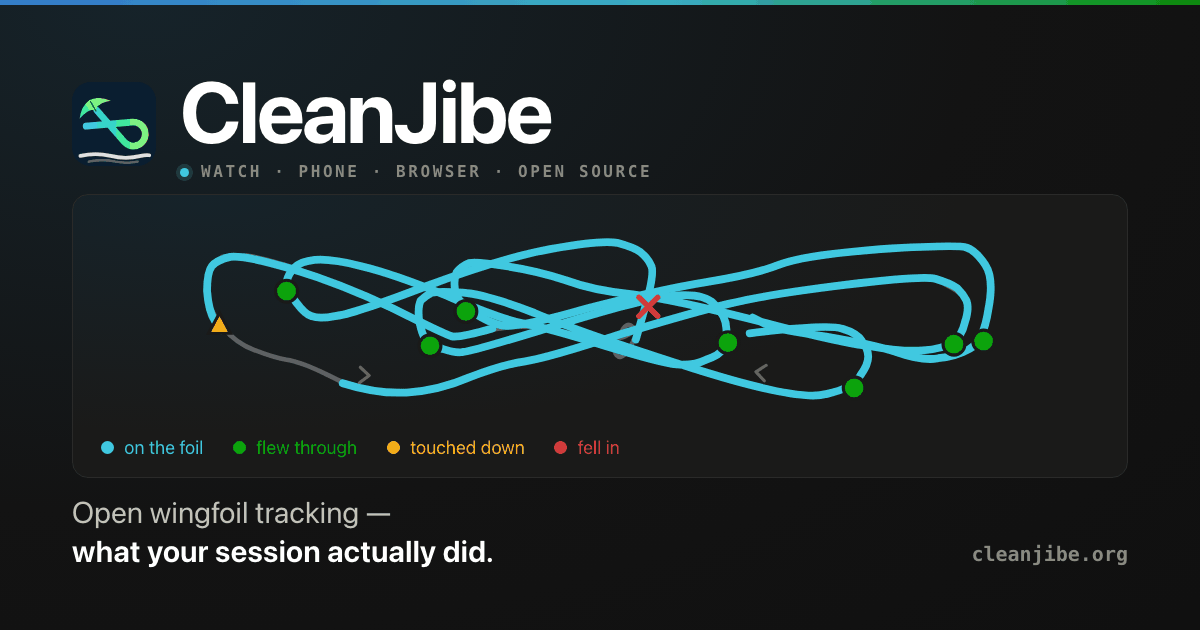
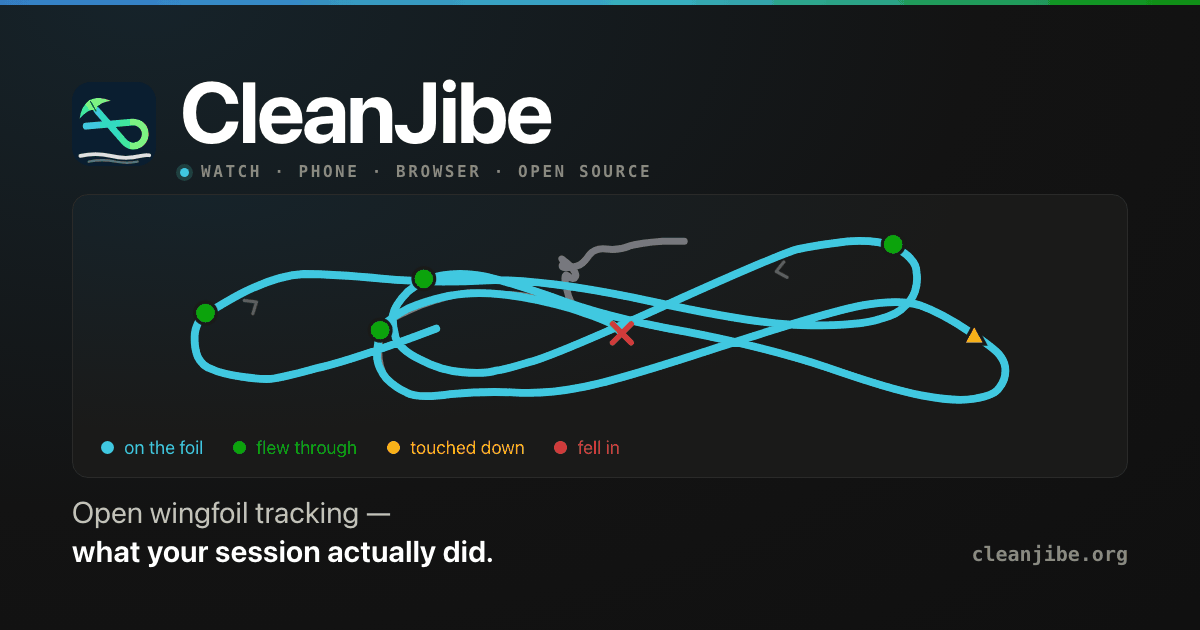
brand: the calm window, and a swim you can actually see
The motif becomes seconds 740-985 of the 1 Sept session — five jibes,
the touchdown, the fall and its swim — and the off-foil grey goes from
width 3 at 55% to 4.5 at 75%, because the swim is part of the story.

Claude-Session: https://claude.ai/code/session_01Mg2rYYNYmQjnvCxJQwsEb7

Changed region(s): [[0.1542, 0.3619, 0.8633, 0.6635], [0.8633, 0.0, 0.8942, 0.0302], [0.7092, 0.0, 0.74, 0.0302]]

diff --git a/ios/WingFoil/Features/Onboarding/WelcomeView.swift b/ios/WingFoil/Features/Onboarding/WelcomeView.swift
@@ -234,36 +234,31 @@ private struct WelcomeTrackMotif: View {
     // not at all; hand-editing one of them is how the front doors start disagreeing.
 
     /// The whole excerpt, off the foil.
-    private static let trackD = "M416 72Q466 66 475 69Q485 72 488 77Q492 82 492 87Q492 92 487 99Q483 107 465 111Q447 116 378 94Q309 72 278 59Q247 47 232 46Q217 45 212 46Q208 48 205 51Q203 55 204 64Q206 73 208 76Q211 80 219 82Q228 85 232 84Q237 84 292 67Q347 50 366 48Q386 46 393 53Q401 61 401 69Q402 78 399 82Q397 86 388 89Q380 93 369 92Q359 91 323 80Q288 69 272 66Q256 63 222 48Q188 34 167 29Q147 24 137 25Q128 26 124 30Q120 34 119 39Q119 45 125 52Q131 60 135 61Q140 63 150 61Q161 60 208 42Q256 24 288 18Q321 12 331 14Q342 17 346 20Q351 24 353 29Q355 34 349 55Q343 76 338 83Q333 90 330 85Q328 80 330 76Q332 73 332 74Q333 76 338 73Q344 70 341 68Q339 66 337 67Q335 68 334 71Q333 74 330 74Q328 75 318 75Q308 75 300 72Q292 70 276 68Q261 67 245 71Q230 75 221 72Q213 70 183 55Q153 40 127 31Q102 23 92 22Q83 22 78 23Q74 25 71 29Q68 33 68 45Q69 58 78 68Q87 79 99 83Q112 88 119 89Q127 90 144 98Q161 107 174 109Q187 112 201 110Q216 109 237 100Q258 92 272 90Q286 88 310 80Q334 72 381 59Q428 47 472 41Q516 36 526 36Q536 37 544 42Q553 47 555 51Q557 56 554 65Q552 74 546 78Q540 82 527 83Q514 84 491 80Q469 77 417 63Q366 50 341 47Q317 45 298 38Q280 32 260 29Q241 26 236 27Q231 29 228 33Q226 37 227 44Q228 52 238 58Q248 65 257 67Q267 69 312 56Q358 44 389 39Q420 34 435 28Q450 22 500 18Q550 15 555 17Q561 19 567 28Q573 37 569 57Q566 77 557 82Q548 87 537 88Q527 90 510 84Q494 79 464 74Q435 70 426 66L418 62"
+    private static let trackD = "M215 69Q162 89 140 94Q118 100 111 101Q105 102 91 100Q77 98 71 95Q65 93 62 87Q60 82 60 75Q60 69 63 64Q67 59 89 47Q112 35 130 34Q149 34 180 37Q211 40 248 38Q286 37 355 52Q424 67 455 67Q487 67 499 63Q511 60 515 55Q520 51 522 45Q524 39 523 33Q523 28 519 24Q516 20 507 16Q498 12 479 13Q461 15 447 18Q433 22 360 55Q287 88 273 91Q260 95 253 96Q247 98 232 97Q218 96 205 89Q192 83 189 75Q187 68 187 61Q188 54 197 45Q207 37 218 35Q230 33 243 35Q256 37 290 49Q324 62 375 71Q427 81 466 94Q506 108 527 112Q548 116 560 114Q573 112 576 107Q580 102 580 96Q580 91 577 87Q575 83 557 71Q539 59 525 54Q512 50 489 54Q467 58 396 81Q326 104 306 107Q286 111 266 110Q246 109 224 111Q203 114 196 110Q189 107 183 101Q178 95 178 82Q179 70 182 66Q186 62 205 54Q224 47 236 46Q249 46 270 48Q292 51 309 57Q326 64 330 68Q334 72 328 67Q323 62 312 60Q302 58 299 45Q296 33 299 35Q303 38 304 36Q306 34 300 28Q294 23 296 25Q298 27 296 28Q295 30 298 30Q301 30 305 29Q309 28 313 22Q317 17 324 18Q332 19 339 16Q346 14 360 13L374 13"
 
     /// …and the parts of it he was flying: the run that ends in the fall, the short one
     /// that ends in the touchdown, and the long one that runs the window out.
     private static let foilDs = [
-        "M416 72Q466 66 475 69Q485 72 488 77Q492 82 492 87Q492 92 487 99Q483 107 465 111Q447 116 378 94Q309 72 278 59Q247 47 232 46Q217 45 212 46Q208 48 205 51Q203 55 204 64Q206 73 208 76Q211 80 219 82Q228 85 232 84Q237 84 292 67Q347 50 366 48Q386 46 393 53Q401 61 401 69Q402 78 399 82Q397 86 388 89Q380 93 369 92Q359 91 323 80Q288 69 272 66Q256 63 222 48Q188 34 167 29Q147 24 137 25Q128 26 124 30Q120 34 119 39Q119 45 125 52Q131 60 135 61Q140 63 150 61Q161 60 208 42Q256 24 288 18Q321 12 331 14Q342 17 346 20Q351 24 353 29Q355 34 349 55L343 76",
-        "M251 69Q230 75 225 74Q221 73 187 56Q153 40 123 31Q93 22 83 23Q74 25 71 29Q68 33 68 45Q69 58 73 64L77 70",
-        "M155 104Q177 111 196 110Q216 109 237 100Q258 92 272 90Q286 88 332 73Q378 59 403 53Q428 47 477 41Q526 35 535 37Q545 40 549 43Q553 47 555 51Q557 56 554 65Q552 74 546 78Q540 82 527 83Q514 84 491 80Q469 77 417 63Q366 50 341 47Q317 45 298 38Q280 32 260 29Q241 26 236 27Q231 29 228 33Q226 37 227 44Q228 52 238 58Q248 65 257 67Q267 69 312 56Q358 44 389 39Q420 34 435 28Q450 22 500 18Q550 15 555 17Q561 19 567 28Q573 37 569 57Q566 77 557 82Q548 87 537 88Q527 90 510 84Q494 79 464 74Q435 70 426 66L418 62",
+        "M215 69Q162 89 140 94Q118 100 111 101Q105 102 91 100Q77 98 71 95Q65 93 62 87Q60 82 60 75Q60 69 63 64Q67 59 89 47Q112 35 130 34Q149 34 180 37Q211 40 248 38Q286 37 355 52Q424 67 455 67Q487 67 499 63Q511 60 515 55Q520 51 522 45Q524 39 523 33Q523 28 519 24Q516 20 507 16Q498 12 479 13Q461 15 447 18Q433 22 360 55Q287 88 273 91Q260 95 253 96Q247 98 232 97Q218 96 205 89Q192 83 189 75Q187 68 187 61Q188 54 197 45Q207 37 218 35Q230 33 243 35Q256 37 290 49Q324 62 375 71Q427 81 466 94Q506 108 527 112Q548 116 560 114Q573 112 576 107Q580 102 580 96Q580 91 577 87Q575 83 557 71Q539 59 525 54Q512 50 489 54Q467 58 396 81Q326 104 306 107Q286 111 266 110Q246 109 224 111Q203 114 196 110Q189 107 183 101Q178 95 177 88Q177 82 178 76Q179 70 182 66Q186 62 197 56Q209 51 223 48Q238 45 257 47Q277 49 301 56Q326 64 330 68L334 72",
     ]
 
     /// The jibes carried, on the apex of the loop each one made.
     private static let flew = [
-        CGPoint(x: 483, y: 107),
-        CGPoint(x: 211, y: 80),
-        CGPoint(x: 402, y: 78),
-        CGPoint(x: 119, y: 45),
-        CGPoint(x: 547, y: 79),
-        CGPoint(x: 234, y: 58),
-        CGPoint(x: 566, y: 77),
+        CGPoint(x: 67, y: 59),
+        CGPoint(x: 508, y: 15),
+        CGPoint(x: 207, y: 37),
+        CGPoint(x: 179, y: 70),
     ]
     /// The touchdown at second 1379, at the far end of the reach it happened on.
-    private static let touchdown = CGPoint(x: 76, y: 66)
+    private static let touchdown = CGPoint(x: 560, y: 73)
     /// The jibe he fell in, second 1268; the 81-second swim out of it is the grey the
     /// later reaches cross over.
-    private static let fellIn = CGPoint(x: 351, y: 55)
+    private static let fellIn = CGPoint(x: 334, y: 72)
     /// Which way he went, set off the lines: (x, y, heading in degrees). Position and
     /// heading are the track's; only the two moments are chosen, for the emptiest stretch.
     private static let arrows: [(CGFloat, CGFloat, CGFloat)] = [
-        (170, 99, 3.2),
-        (422, 97, -172.8),
+        (98, 53, -33.2),
+        (435, 32, 168.1),
     ]
 
     var body: some View {
@@ -280,7 +275,7 @@ private struct WelcomeTrackMotif: View {
                 context.stroke(path.applying(transform), with: .color(color), style: style)
             }
 
-            draw(Self.path(Self.trackD), DesignTokens.Phase.offFoil, width: 3)
+            draw(Self.path(Self.trackD), DesignTokens.Phase.offFoil, width: 4.5)
             for d in Self.foilDs {
                 draw(Self.path(d), DesignTokens.Phase.flying, width: 5)
             }
@@ -324,10 +319,9 @@ private struct WelcomeTrackMotif: View {
             draw(cross, DesignTokens.Outcome.fellIn, width: 3.5)
         }
         .accessibilityElement()
-        .accessibilityLabel("A six-and-a-half minute excerpt from a real session's track: "
-                            + "nine jibes in one stretch of water, seven flown through, "
-                            + "one touched down, and one fallen in with the swim that "
-                            + "followed.")
+        .accessibilityLabel("A four-minute excerpt from a real session's track: "
+                            + "five jibes flown through, one touched down, and one "
+                            + "fallen in with the swim that followed.")
     }
 
     /// The slice of SVG path data the motif uses — absolute `M x y`, `L x y`, `Q cx cy x y`

diff --git a/web/index.html b/web/index.html
@@ -389,35 +389,30 @@
            (ios/WingFoil/Features/Onboarding/WelcomeView.swift) and the share card
            (web/tools/social_card.html) carry the same strings character for character —
            one table, three renditions, so `grep` catches any drift. -->
-      <svg viewBox="0 0 640 128" role="img" aria-label="A six-and-a-half minute excerpt from a real session's track: nine jibes in one stretch of water, seven flown through, one touched down, and one fallen in with the swim that followed.">
+      <svg viewBox="0 0 640 128" role="img" aria-label="A four-minute excerpt from a real session's track: five jibes flown through, one touched down, and one fallen in with the swim that followed.">
         <!-- the whole excerpt, off the foil -->
-        <path class="m-track" d="M416 72Q466 66 475 69Q485 72 488 77Q492 82 492 87Q492 92 487 99Q483 107 465 111Q447 116 378 94Q309 72 278 59Q247 47 232 46Q217 45 212 46Q208 48 205 51Q203 55 204 64Q206 73 208 76Q211 80 219 82Q228 85 232 84Q237 84 292 67Q347 50 366 48Q386 46 393 53Q401 61 401 69Q402 78 399 82Q397 86 388 89Q380 93 369 92Q359 91 323 80Q288 69 272 66Q256 63 222 48Q188 34 167 29Q147 24 137 25Q128 26 124 30Q120 34 119 39Q119 45 125 52Q131 60 135 61Q140 63 150 61Q161 60 208 42Q256 24 288 18Q321 12 331 14Q342 17 346 20Q351 24 353 29Q355 34 349 55Q343 76 338 83Q333 90 330 85Q328 80 330 76Q332 73 332 74Q333 76 338 73Q344 70 341 68Q339 66 337 67Q335 68 334 71Q333 74 330 74Q328 75 318 75Q308 75 300 72Q292 70 276 68Q261 67 245 71Q230 75 221 72Q213 70 183 55Q153 40 127 31Q102 23 92 22Q83 22 78 23Q74 25 71 29Q68 33 68 45Q69 58 78 68Q87 79 99 83Q112 88 119 89Q127 90 144 98Q161 107 174 109Q187 112 201 110Q216 109 237 100Q258 92 272 90Q286 88 310 80Q334 72 381 59Q428 47 472 41Q516 36 526 36Q536 37 544 42Q553 47 555 51Q557 56 554 65Q552 74 546 78Q540 82 527 83Q514 84 491 80Q469 77 417 63Q366 50 341 47Q317 45 298 38Q280 32 260 29Q241 26 236 27Q231 29 228 33Q226 37 227 44Q228 52 238 58Q248 65 257 67Q267 69 312 56Q358 44 389 39Q420 34 435 28Q450 22 500 18Q550 15 555 17Q561 19 567 28Q573 37 569 57Q566 77 557 82Q548 87 537 88Q527 90 510 84Q494 79 464 74Q435 70 426 66L418 62"/>
+        <path class="m-track" d="M215 69Q162 89 140 94Q118 100 111 101Q105 102 91 100Q77 98 71 95Q65 93 62 87Q60 82 60 75Q60 69 63 64Q67 59 89 47Q112 35 130 34Q149 34 180 37Q211 40 248 38Q286 37 355 52Q424 67 455 67Q487 67 499 63Q511 60 515 55Q520 51 522 45Q524 39 523 33Q523 28 519 24Q516 20 507 16Q498 12 479 13Q461 15 447 18Q433 22 360 55Q287 88 273 91Q260 95 253 96Q247 98 232 97Q218 96 205 89Q192 83 189 75Q187 68 187 61Q188 54 197 45Q207 37 218 35Q230 33 243 35Q256 37 290 49Q324 62 375 71Q427 81 466 94Q506 108 527 112Q548 116 560 114Q573 112 576 107Q580 102 580 96Q580 91 577 87Q575 83 557 71Q539 59 525 54Q512 50 489 54Q467 58 396 81Q326 104 306 107Q286 111 266 110Q246 109 224 111Q203 114 196 110Q189 107 183 101Q178 95 178 82Q179 70 182 66Q186 62 205 54Q224 47 236 46Q249 46 270 48Q292 51 309 57Q326 64 330 68Q334 72 328 67Q323 62 312 60Q302 58 299 45Q296 33 299 35Q303 38 304 36Q306 34 300 28Q294 23 296 25Q298 27 296 28Q295 30 298 30Q301 30 305 29Q309 28 313 22Q317 17 324 18Q332 19 339 16Q346 14 360 13L374 13"/>
 
         <!-- and the parts of it he was flying -->
-        <path class="m-foil" d="M416 72Q466 66 475 69Q485 72 488 77Q492 82 492 87Q492 92 487 99Q483 107 465 111Q447 116 378 94Q309 72 278 59Q247 47 232 46Q217 45 212 46Q208 48 205 51Q203 55 204 64Q206 73 208 76Q211 80 219 82Q228 85 232 84Q237 84 292 67Q347 50 366 48Q386 46 393 53Q401 61 401 69Q402 78 399 82Q397 86 388 89Q380 93 369 92Q359 91 323 80Q288 69 272 66Q256 63 222 48Q188 34 167 29Q147 24 137 25Q128 26 124 30Q120 34 119 39Q119 45 125 52Q131 60 135 61Q140 63 150 61Q161 60 208 42Q256 24 288 18Q321 12 331 14Q342 17 346 20Q351 24 353 29Q355 34 349 55L343 76"/>
-        <path class="m-foil" d="M251 69Q230 75 225 74Q221 73 187 56Q153 40 123 31Q93 22 83 23Q74 25 71 29Q68 33 68 45Q69 58 73 64L77 70"/>
-        <path class="m-foil" d="M155 104Q177 111 196 110Q216 109 237 100Q258 92 272 90Q286 88 332 73Q378 59 403 53Q428 47 477 41Q526 35 535 37Q545 40 549 43Q553 47 555 51Q557 56 554 65Q552 74 546 78Q540 82 527 83Q514 84 491 80Q469 77 417 63Q366 50 341 47Q317 45 298 38Q280 32 260 29Q241 26 236 27Q231 29 228 33Q226 37 227 44Q228 52 238 58Q248 65 257 67Q267 69 312 56Q358 44 389 39Q420 34 435 28Q450 22 500 18Q550 15 555 17Q561 19 567 28Q573 37 569 57Q566 77 557 82Q548 87 537 88Q527 90 510 84Q494 79 464 74Q435 70 426 66L418 62"/>
+        <path class="m-foil" d="M215 69Q162 89 140 94Q118 100 111 101Q105 102 91 100Q77 98 71 95Q65 93 62 87Q60 82 60 75Q60 69 63 64Q67 59 89 47Q112 35 130 34Q149 34 180 37Q211 40 248 38Q286 37 355 52Q424 67 455 67Q487 67 499 63Q511 60 515 55Q520 51 522 45Q524 39 523 33Q523 28 519 24Q516 20 507 16Q498 12 479 13Q461 15 447 18Q433 22 360 55Q287 88 273 91Q260 95 253 96Q247 98 232 97Q218 96 205 89Q192 83 189 75Q187 68 187 61Q188 54 197 45Q207 37 218 35Q230 33 243 35Q256 37 290 49Q324 62 375 71Q427 81 466 94Q506 108 527 112Q548 116 560 114Q573 112 576 107Q580 102 580 96Q580 91 577 87Q575 83 557 71Q539 59 525 54Q512 50 489 54Q467 58 396 81Q326 104 306 107Q286 111 266 110Q246 109 224 111Q203 114 196 110Q189 107 183 101Q178 95 177 88Q177 82 178 76Q179 70 182 66Q186 62 197 56Q209 51 223 48Q238 45 257 47Q277 49 301 56Q326 64 330 68L334 72"/>
 
         <!-- which way he went — set off the lines rather than on them, where a 2 px
              chevron inside a 5 px stroke just reads as a nick in the paint -->
         <g class="m-dir">
-          <path d="M-4 -5 L2 0 L-4 5" transform="translate(170,99) rotate(3.2)"/>
-          <path d="M-4 -5 L2 0 L-4 5" transform="translate(422,97) rotate(-172.8)"/>
+          <path d="M-4 -5 L2 0 L-4 5" transform="translate(98,53) rotate(-33.2)"/>
+          <path d="M-4 -5 L2 0 L-4 5" transform="translate(435,32) rotate(168.1)"/>
         </g>
 
         <!-- flew through -->
-        <circle class="m-flew" cx="483" cy="107" r="7"/>
-        <circle class="m-flew" cx="211" cy="80" r="7"/>
-        <circle class="m-flew" cx="402" cy="78" r="7"/>
-        <circle class="m-flew" cx="119" cy="45" r="7"/>
-        <circle class="m-flew" cx="547" cy="79" r="7"/>
-        <circle class="m-flew" cx="234" cy="58" r="7"/>
-        <circle class="m-flew" cx="566" cy="77" r="7"/>
+        <circle class="m-flew" cx="67" cy="59" r="7"/>
+        <circle class="m-flew" cx="508" cy="15" r="7"/>
+        <circle class="m-flew" cx="207" cy="37" r="7"/>
+        <circle class="m-flew" cx="179" cy="70" r="7"/>
         <!-- touched down -->
-        <path class="m-touch" d="M76 59 L83 72 L69 72 Z"/>
+        <path class="m-touch" d="M560 66 L567 79 L553 79 Z"/>
         <!-- fell in -->
         <g class="m-fell">
-          <path d="M345 49 L357 61"/><path d="M357 49 L345 61"/>
+          <path d="M328 66 L340 78"/><path d="M340 66 L328 78"/>
         </g>
       </svg>
       <p class="motif-key">

diff --git a/web/tools/social_card.html b/web/tools/social_card.html
@@ -83,7 +83,7 @@
     padding: 26px 28px 20px;
   }
   .motif svg { display: block; width: 100%; height: auto; }
-  .m-track { fill: none; stroke: var(--track); stroke-width: 3; opacity: .55;
+  .m-track { fill: none; stroke: var(--track); stroke-width: 4.5; opacity: .75;
              stroke-linecap: round; stroke-linejoin: round; }
   .m-foil  { fill: none; stroke: var(--foil); stroke-width: 5;
              stroke-linecap: round; stroke-linejoin: round; }
@@ -148,33 +148,28 @@
   <div class="motif">
     <svg viewBox="0 0 640 128">
       <!-- the whole excerpt, off the foil -->
-      <path class="m-track" d="M416 72Q466 66 475 69Q485 72 488 77Q492 82 492 87Q492 92 487 99Q483 107 465 111Q447 116 378 94Q309 72 278 59Q247 47 232 46Q217 45 212 46Q208 48 205 51Q203 55 204 64Q206 73 208 76Q211 80 219 82Q228 85 232 84Q237 84 292 67Q347 50 366 48Q386 46 393 53Q401 61 401 69Q402 78 399 82Q397 86 388 89Q380 93 369 92Q359 91 323 80Q288 69 272 66Q256 63 222 48Q188 34 167 29Q147 24 137 25Q128 26 124 30Q120 34 119 39Q119 45 125 52Q131 60 135 61Q140 63 150 61Q161 60 208 42Q256 24 288 18Q321 12 331 14Q342 17 346 20Q351 24 353 29Q355 34 349 55Q343 76 338 83Q333 90 330 85Q328 80 330 76Q332 73 332 74Q333 76 338 73Q344 70 341 68Q339 66 337 67Q335 68 334 71Q333 74 330 74Q328 75 318 75Q308 75 300 72Q292 70 276 68Q261 67 245 71Q230 75 221 72Q213 70 183 55Q153 40 127 31Q102 23 92 22Q83 22 78 23Q74 25 71 29Q68 33 68 45Q69 58 78 68Q87 79 99 83Q112 88 119 89Q127 90 144 98Q161 107 174 109Q187 112 201 110Q216 109 237 100Q258 92 272 90Q286 88 310 80Q334 72 381 59Q428 47 472 41Q516 36 526 36Q536 37 544 42Q553 47 555 51Q557 56 554 65Q552 74 546 78Q540 82 527 83Q514 84 491 80Q469 77 417 63Q366 50 341 47Q317 45 298 38Q280 32 260 29Q241 26 236 27Q231 29 228 33Q226 37 227 44Q228 52 238 58Q248 65 257 67Q267 69 312 56Q358 44 389 39Q420 34 435 28Q450 22 500 18Q550 15 555 17Q561 19 567 28Q573 37 569 57Q566 77 557 82Q548 87 537 88Q527 90 510 84Q494 79 464 74Q435 70 426 66L418 62"/>
+      <path class="m-track" d="M215 69Q162 89 140 94Q118 100 111 101Q105 102 91 100Q77 98 71 95Q65 93 62 87Q60 82 60 75Q60 69 63 64Q67 59 89 47Q112 35 130 34Q149 34 180 37Q211 40 248 38Q286 37 355 52Q424 67 455 67Q487 67 499 63Q511 60 515 55Q520 51 522 45Q524 39 523 33Q523 28 519 24Q516 20 507 16Q498 12 479 13Q461 15 447 18Q433 22 360 55Q287 88 273 91Q260 95 253 96Q247 98 232 97Q218 96 205 89Q192 83 189 75Q187 68 187 61Q188 54 197 45Q207 37 218 35Q230 33 243 35Q256 37 290 49Q324 62 375 71Q427 81 466 94Q506 108 527 112Q548 116 560 114Q573 112 576 107Q580 102 580 96Q580 91 577 87Q575 83 557 71Q539 59 525 54Q512 50 489 54Q467 58 396 81Q326 104 306 107Q286 111 266 110Q246 109 224 111Q203 114 196 110Q189 107 183 101Q178 95 178 82Q179 70 182 66Q186 62 205 54Q224 47 236 46Q249 46 270 48Q292 51 309 57Q326 64 330 68Q334 72 328 67Q323 62 312 60Q302 58 299 45Q296 33 299 35Q303 38 304 36Q306 34 300 28Q294 23 296 25Q298 27 296 28Q295 30 298 30Q301 30 305 29Q309 28 313 22Q317 17 324 18Q332 19 339 16Q346 14 360 13L374 13"/>
 
       <!-- and the parts of it he was flying -->
-      <path class="m-foil" d="M416 72Q466 66 475 69Q485 72 488 77Q492 82 492 87Q492 92 487 99Q483 107 465 111Q447 116 378 94Q309 72 278 59Q247 47 232 46Q217 45 212 46Q208 48 205 51Q203 55 204 64Q206 73 208 76Q211 80 219 82Q228 85 232 84Q237 84 292 67Q347 50 366 48Q386 46 393 53Q401 61 401 69Q402 78 399 82Q397 86 388 89Q380 93 369 92Q359 91 323 80Q288 69 272 66Q256 63 222 48Q188 34 167 29Q147 24 137 25Q128 26 124 30Q120 34 119 39Q119 45 125 52Q131 60 135 61Q140 63 150 61Q161 60 208 42Q256 24 288 18Q321 12 331 14Q342 17 346 20Q351 24 353 29Q355 34 349 55L343 76"/>
-      <path class="m-foil" d="M251 69Q230 75 225 74Q221 73 187 56Q153 40 123 31Q93 22 83 23Q74 25 71 29Q68 33 68 45Q69 58 73 64L77 70"/>
-      <path class="m-foil" d="M155 104Q177 111 196 110Q216 109 237 100Q258 92 272 90Q286 88 332 73Q378 59 403 53Q428 47 477 41Q526 35 535 37Q545 40 549 43Q553 47 555 51Q557 56 554 65Q552 74 546 78Q540 82 527 83Q514 84 491 80Q469 77 417 63Q366 50 341 47Q317 45 298 38Q280 32 260 29Q241 26 236 27Q231 29 228 33Q226 37 227 44Q228 52 238 58Q248 65 257 67Q267 69 312 56Q358 44 389 39Q420 34 435 28Q450 22 500 18Q550 15 555 17Q561 19 567 28Q573 37 569 57Q566 77 557 82Q548 87 537 88Q527 90 510 84Q494 79 464 74Q435 70 426 66L418 62"/>
+      <path class="m-foil" d="M215 69Q162 89 140 94Q118 100 111 101Q105 102 91 100Q77 98 71 95Q65 93 62 87Q60 82 60 75Q60 69 63 64Q67 59 89 47Q112 35 130 34Q149 34 180 37Q211 40 248 38Q286 37 355 52Q424 67 455 67Q487 67 499 63Q511 60 515 55Q520 51 522 45Q524 39 523 33Q523 28 519 24Q516 20 507 16Q498 12 479 13Q461 15 447 18Q433 22 360 55Q287 88 273 91Q260 95 253 96Q247 98 232 97Q218 96 205 89Q192 83 189 75Q187 68 187 61Q188 54 197 45Q207 37 218 35Q230 33 243 35Q256 37 290 49Q324 62 375 71Q427 81 466 94Q506 108 527 112Q548 116 560 114Q573 112 576 107Q580 102 580 96Q580 91 577 87Q575 83 557 71Q539 59 525 54Q512 50 489 54Q467 58 396 81Q326 104 306 107Q286 111 266 110Q246 109 224 111Q203 114 196 110Q189 107 183 101Q178 95 177 88Q177 82 178 76Q179 70 182 66Q186 62 197 56Q209 51 223 48Q238 45 257 47Q277 49 301 56Q326 64 330 68L334 72"/>
 
       <!-- which way he went — set off the lines rather than on them, where a 2 px
            chevron inside a 5 px stroke just reads as a nick in the paint -->
       <g class="m-dir">
-        <path d="M-4 -5 L2 0 L-4 5" transform="translate(170,99) rotate(3.2)"/>
-        <path d="M-4 -5 L2 0 L-4 5" transform="translate(422,97) rotate(-172.8)"/>
+        <path d="M-4 -5 L2 0 L-4 5" transform="translate(98,53) rotate(-33.2)"/>
+        <path d="M-4 -5 L2 0 L-4 5" transform="translate(435,32) rotate(168.1)"/>
       </g>
 
       <!-- flew through -->
-      <circle class="m-flew" cx="483" cy="107" r="7"/>
-      <circle class="m-flew" cx="211" cy="80" r="7"/>
-      <circle class="m-flew" cx="402" cy="78" r="7"/>
-      <circle class="m-flew" cx="119" cy="45" r="7"/>
-      <circle class="m-flew" cx="547" cy="79" r="7"/>
-      <circle class="m-flew" cx="234" cy="58" r="7"/>
-      <circle class="m-flew" cx="566" cy="77" r="7"/>
+      <circle class="m-flew" cx="67" cy="59" r="7"/>
+      <circle class="m-flew" cx="508" cy="15" r="7"/>
+      <circle class="m-flew" cx="207" cy="37" r="7"/>
+      <circle class="m-flew" cx="179" cy="70" r="7"/>
       <!-- touched down -->
-      <path class="m-touch" d="M76 59 L83 72 L69 72 Z"/>
+      <path class="m-touch" d="M560 66 L567 79 L553 79 Z"/>
       <!-- fell in -->
       <g class="m-fell">
-        <path d="M345 49 L357 61"/><path d="M357 49 L345 61"/>
+        <path d="M328 66 L340 78"/><path d="M340 66 L328 78"/>
       </g>
     </svg>
     <p class="key">

diff --git a/web/sw.js b/web/sw.js
@@ -20,7 +20,7 @@
  * swapping the worker under a running analysis.
  */
 
-const VERSION = "v26";     // v26: the motif is a real excerpt now, not a drawing of one
+const VERSION = "v27";     // v26: the motif is a real excerpt now, not a drawing of one
 // The cache *names* keep the historical prefix on purpose: the activate handler below
 // deletes every cache starting with it, so renaming the prefix would strand every v1–v13
 // cache on every device that ever visited, forever. Nobody sees these strings.

diff --git a/web/css/home.css b/web/css/home.css
@@ -136,7 +136,7 @@
    verdicts. Shape carries the state — disc / triangle / cross — and colour reinforces it,
    which is the rule the whole project draws by. */
 .motif .m-track {
-  fill: none; stroke: var(--track); stroke-width: 3; opacity: 0.55;
+  fill: none; stroke: var(--track); stroke-width: 4.5; opacity: 0.75;
   stroke-linecap: round; stroke-linejoin: round;
 }
 .motif .m-foil {
